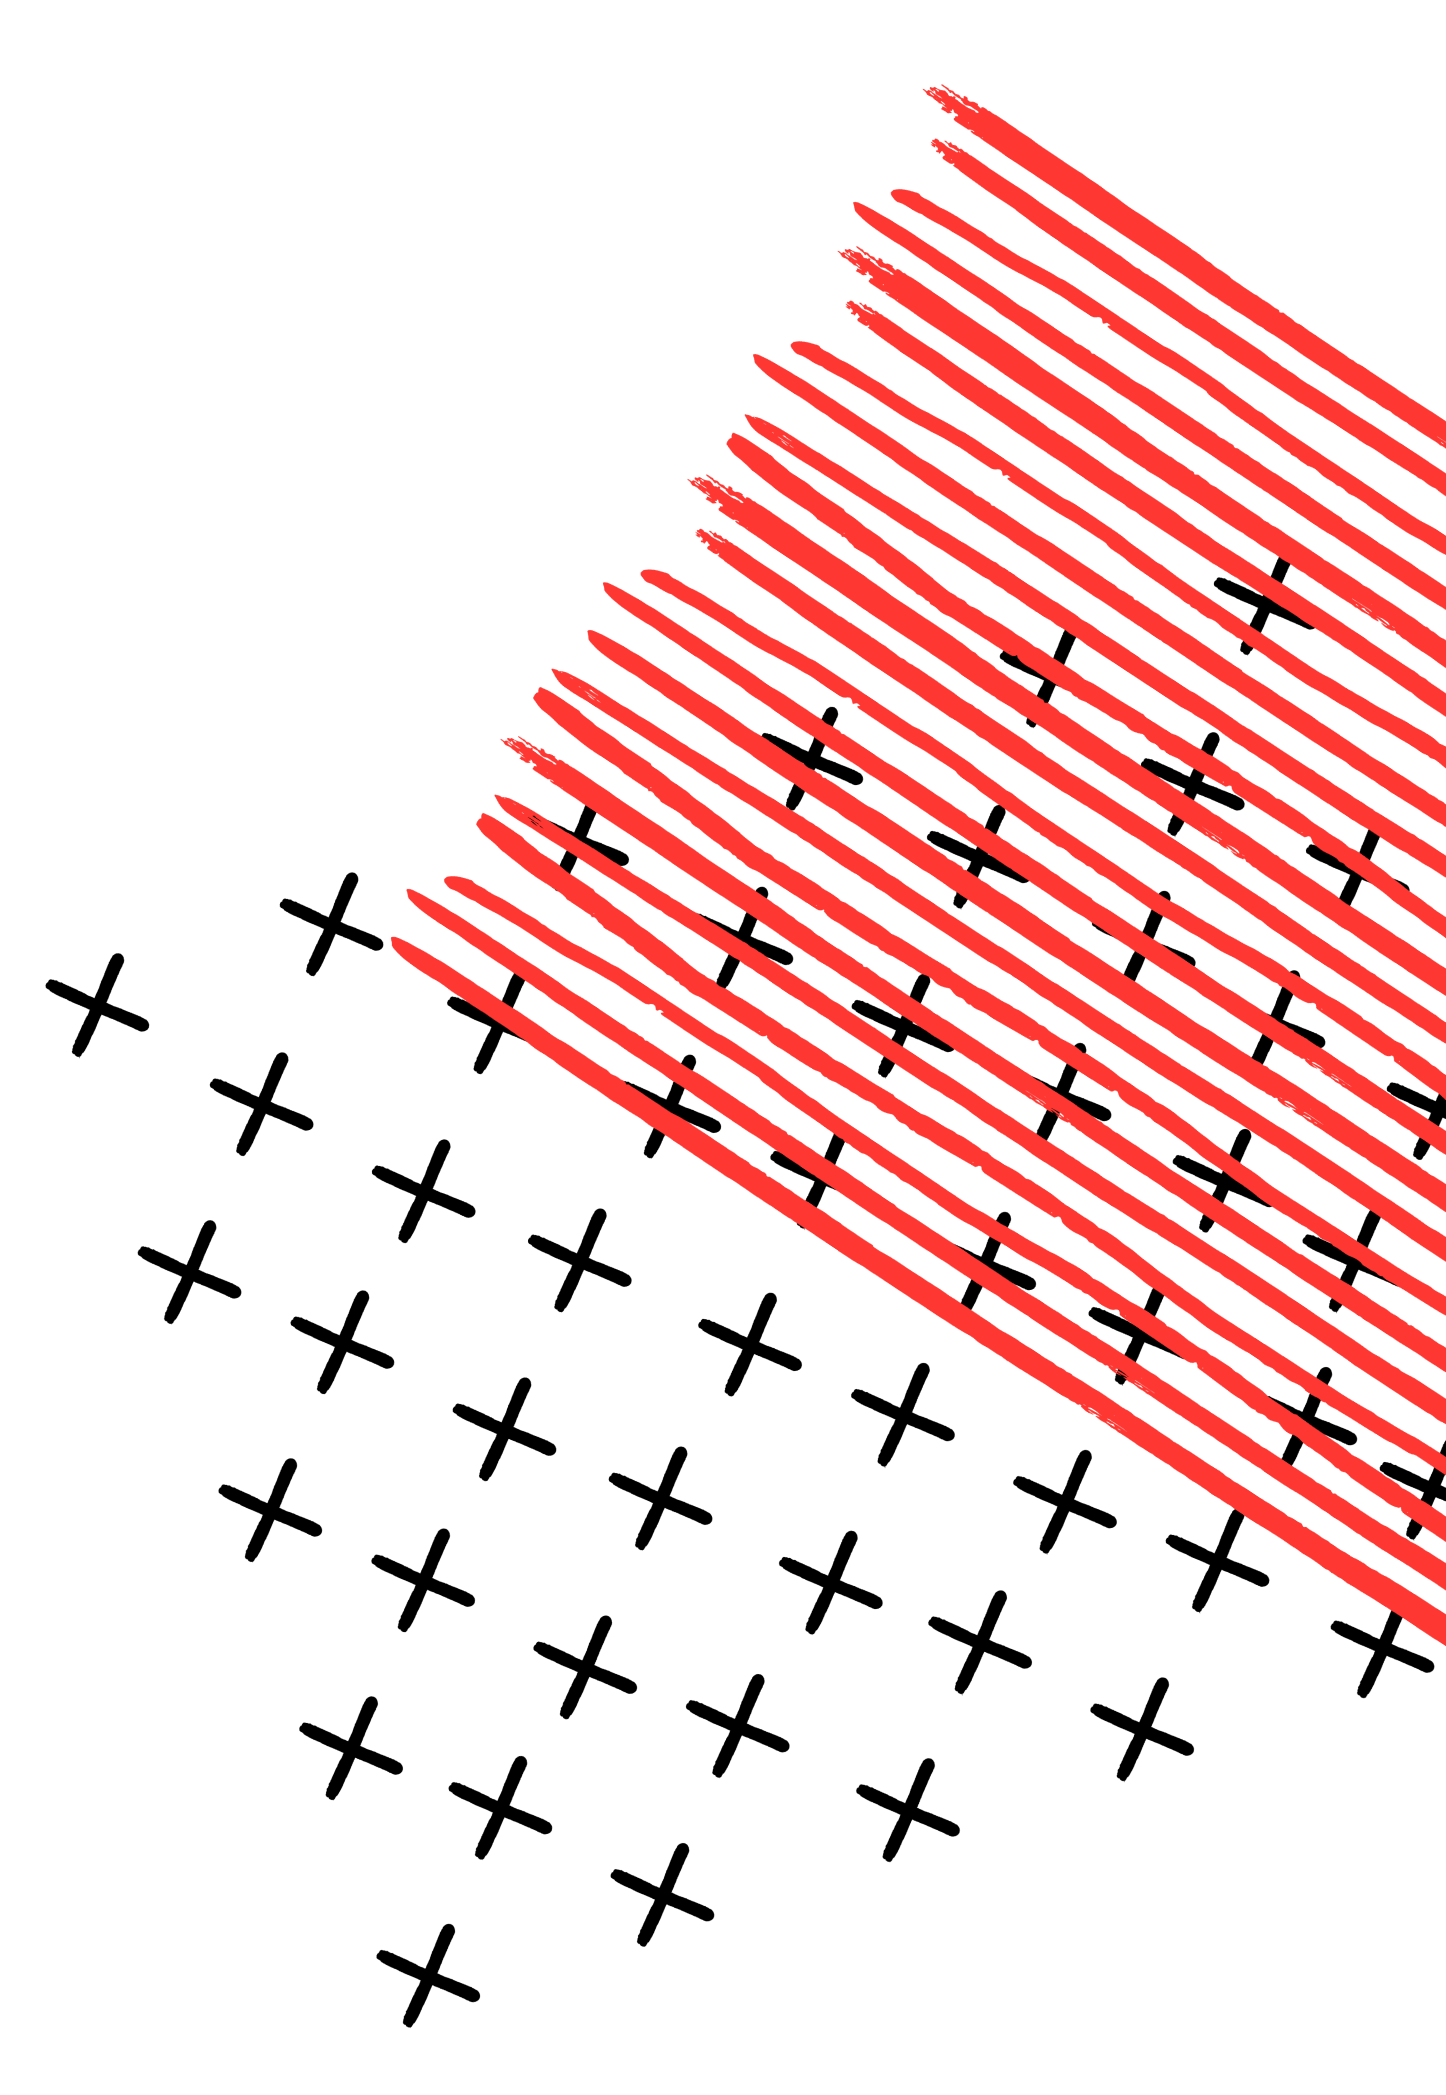
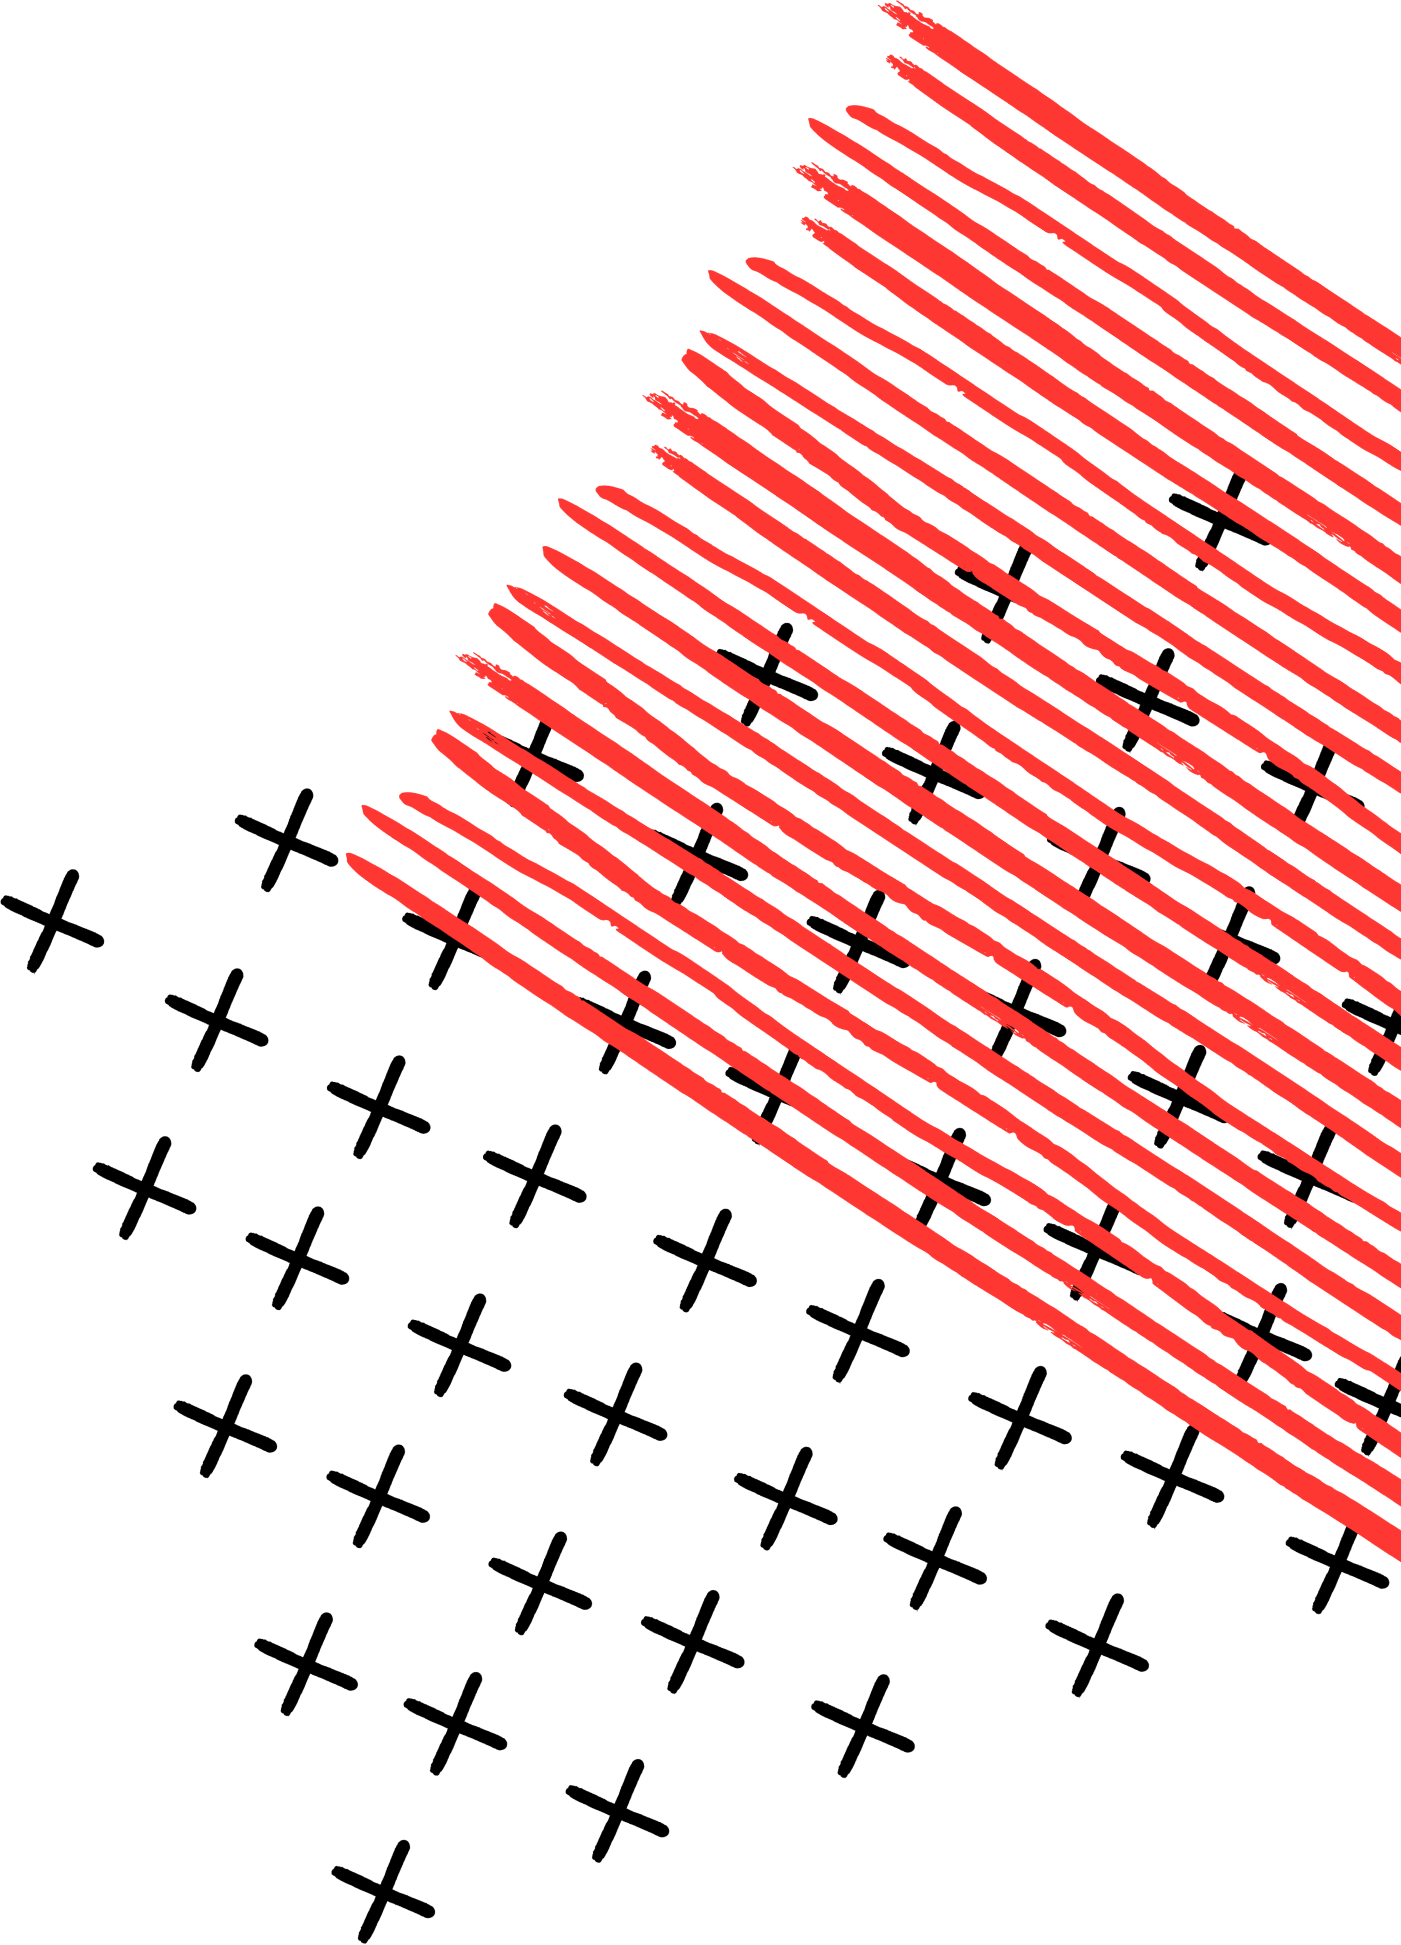
feat: grafismos desktop

diff --git a/src/components/Rodape/index.tsx b/src/components/Rodape/index.tsx
@@ -1,11 +1,9 @@
-import { getImage, IGatsbyImageData } from "gatsby-plugin-image";
 import React from "react";
 
 import Image from "../Image";
 
-import ArtDirectionImage from "@/components/ArtDirectionImage";
 
-import { queryImage } from "@/utils/images";
+import useWindowSize from "@/utils/useWindowSize";
 
 import * as styles from "./styles.module.scss";
 
@@ -17,32 +15,17 @@ type Props = IConteudoSecao
 const Rodape: React.FC<Props> = ({ id, links }) => {
   const i = parseInt(id, 10) + 1;
   const filename = `${i.toString().padStart(2, "0")}.png`;
-  const defaultImg: IGatsbyImageData | undefined =
-    getImage(queryImage(`slides/bg/mobile/${filename}`).node);
-  const breakpoints = [
-    {
-      media: "(min-width: 1024px)",
-      image: getImage(queryImage(`slides/bg/desktop/${filename}`)?.node) as IGatsbyImageData
-    }
-  ];
+  const { isMobile } = useWindowSize();
 
-  console.log(defaultImg, breakpoints)
 
   return (
     <div className={styles.rodape}>
-      <ArtDirectionImage
-        alt=""
-        defaultImage={`slides/bg/mobile/${filename}`}
-        images={{
-          "(min-width: 1024px)": `slides/bg/desktop/${filename}`,
-        }}
-      />
-      <Image
-        alt=""
-        aria-hidden
-        className={styles.bg}
-        filename={`slides/bg/${filename}}.png`}
-      />
+      {
+        isMobile
+          ? <Image alt="" filename={`slides/bg/mobile/${filename}`} />
+          : <Image alt="" filename={`slides/bg/desktop/${filename}`} />
+      }
+      {/* people */}
       {id !== "07" &&
         links &&
         links.map(link => {
@@ -71,6 +54,7 @@ const Rodape: React.FC<Props> = ({ id, links }) => {
           filename={`slides/people/slide_1.png`}
         />
       )}
+      {/* elemento na frente  */}
       <Image
         alt=""
         aria-hidden

diff --git a/src/utils/useWindowSize.tsx b/src/utils/useWindowSize.tsx
@@ -1,0 +1,39 @@
+import { useState, useEffect } from "react";
+
+interface Size {
+  width: number | undefined;
+  height: number | undefined;
+}
+
+const useWindowSize: Size = () => {
+  // Initialize state with undefined width/height so server and client renders match
+  // Learn more here: https://joshwcomeau.com/react/the-perils-of-rehydration/
+  const [windowSize, setWindowSize] = useState<Size>({
+    width: undefined,
+    height: undefined,
+  });
+
+  useEffect(() => {
+    // Handler to call on window resize
+    function handleResize() {
+      // Set window width/height to state
+      setWindowSize({
+        width: window.innerWidth,
+        height: window.innerHeight,
+      });
+    }
+
+    // Add event listener
+    window.addEventListener("resize", handleResize);
+
+    // Call handler right away so state gets updated with initial window size
+    handleResize();
+
+    // Remove event listener on cleanup
+    return () => window.removeEventListener("resize", handleResize);
+  }, []); // Empty array ensures that effect is only run on mount
+
+  return windowSize;
+};
+
+export default useWindowSize;

diff --git a/src/components/AspectRatio/index.tsx b/src/components/AspectRatio/index.tsx
@@ -1,0 +1,27 @@
+import React from "react";
+
+import * as styles from "./styles.module.scss";
+
+type TAspectRatio = React.HTMLAttributes<HTMLDivElement>;
+
+interface IProps {
+  ratio: number;
+}
+
+const AspectRatio: React.FC<IProps & TAspectRatio> = ({
+  children,
+  ratio,
+  ...others
+}) => {
+  const paddingTop = ratio === 0 ? 100 : 100 / ratio;
+
+  return (
+    <div className={styles.wrapper} {...others}>
+      <div className={styles.ratio} style={{ paddingTop: `${paddingTop}%` }}>
+        <div className={styles.content}>{children}</div>
+      </div>
+    </div>
+  );
+};
+
+export default AspectRatio;

diff --git a/src/components/Rodape/styles.module.scss b/src/components/Rodape/styles.module.scss
@@ -3,13 +3,17 @@
 .rodape {
   align-self: end;
   display: flex;
-  margin-top: 5rem;
   position: relative;
+  
+  @include mobile {
+    margin-top: 5rem;
+  }
 
   @include desktop {
     position: absolute;
     left: unset;
     right: 0;
+    width: 30%;
   }
 }
 
@@ -38,6 +42,11 @@
       transform: scale(1.1);
     }
   }
+
+  // TODO: re-incluir
+  @include desktop {
+    display: none;
+  }
 }
 
 .mosaic {
@@ -54,4 +63,9 @@
   position: absolute;
   width: 100%;
   z-index: 2;
+  
+  // TODO: re-incluir
+  @include desktop {
+    display: none;
+  }
 }

diff --git a/src/components/Section/styles.module.scss b/src/components/Section/styles.module.scss
@@ -3,17 +3,16 @@
 .section {
   display: flex;
   flex-direction: column;
-  min-height: 100%;
   position: relative;
-
+  
   &[data-extra="true"] {
     overflow: hidden;
   }
-
-  @include desktop {
-    width: 70%;
-    max-width: 92rem;
+  
+  @include mobile {
+    min-height: 100%;
   }
+
 }
 
 .title {
@@ -41,5 +40,10 @@
   @include mobile {
     padding-left: 4.6rem;
     padding-right: 4.6rem;
+  }
+
+  @include desktop {
+    width: 70%;
+    max-width: 92rem;
   }
 }

diff --git a/src/components/AspectRatio/styles.module.scss b/src/components/AspectRatio/styles.module.scss
@@ -1,0 +1,17 @@
+.wrapper {
+  display: block;
+}
+
+.ratio {
+  position: relative;
+  width: 100%;
+};
+
+.content {
+  height: 100%;
+  left: 0;
+  position: absolute;
+  top: 0;
+  width: 100%;
+}
+

diff --git a/src/components/Extra/styles.module.scss b/src/components/Extra/styles.module.scss
@@ -34,6 +34,10 @@
   overflow: hidden;
   opacity: 1;
   z-index: 99;
+
+  @include desktop {
+    display: none;
+  }
 }
 
 .button {
